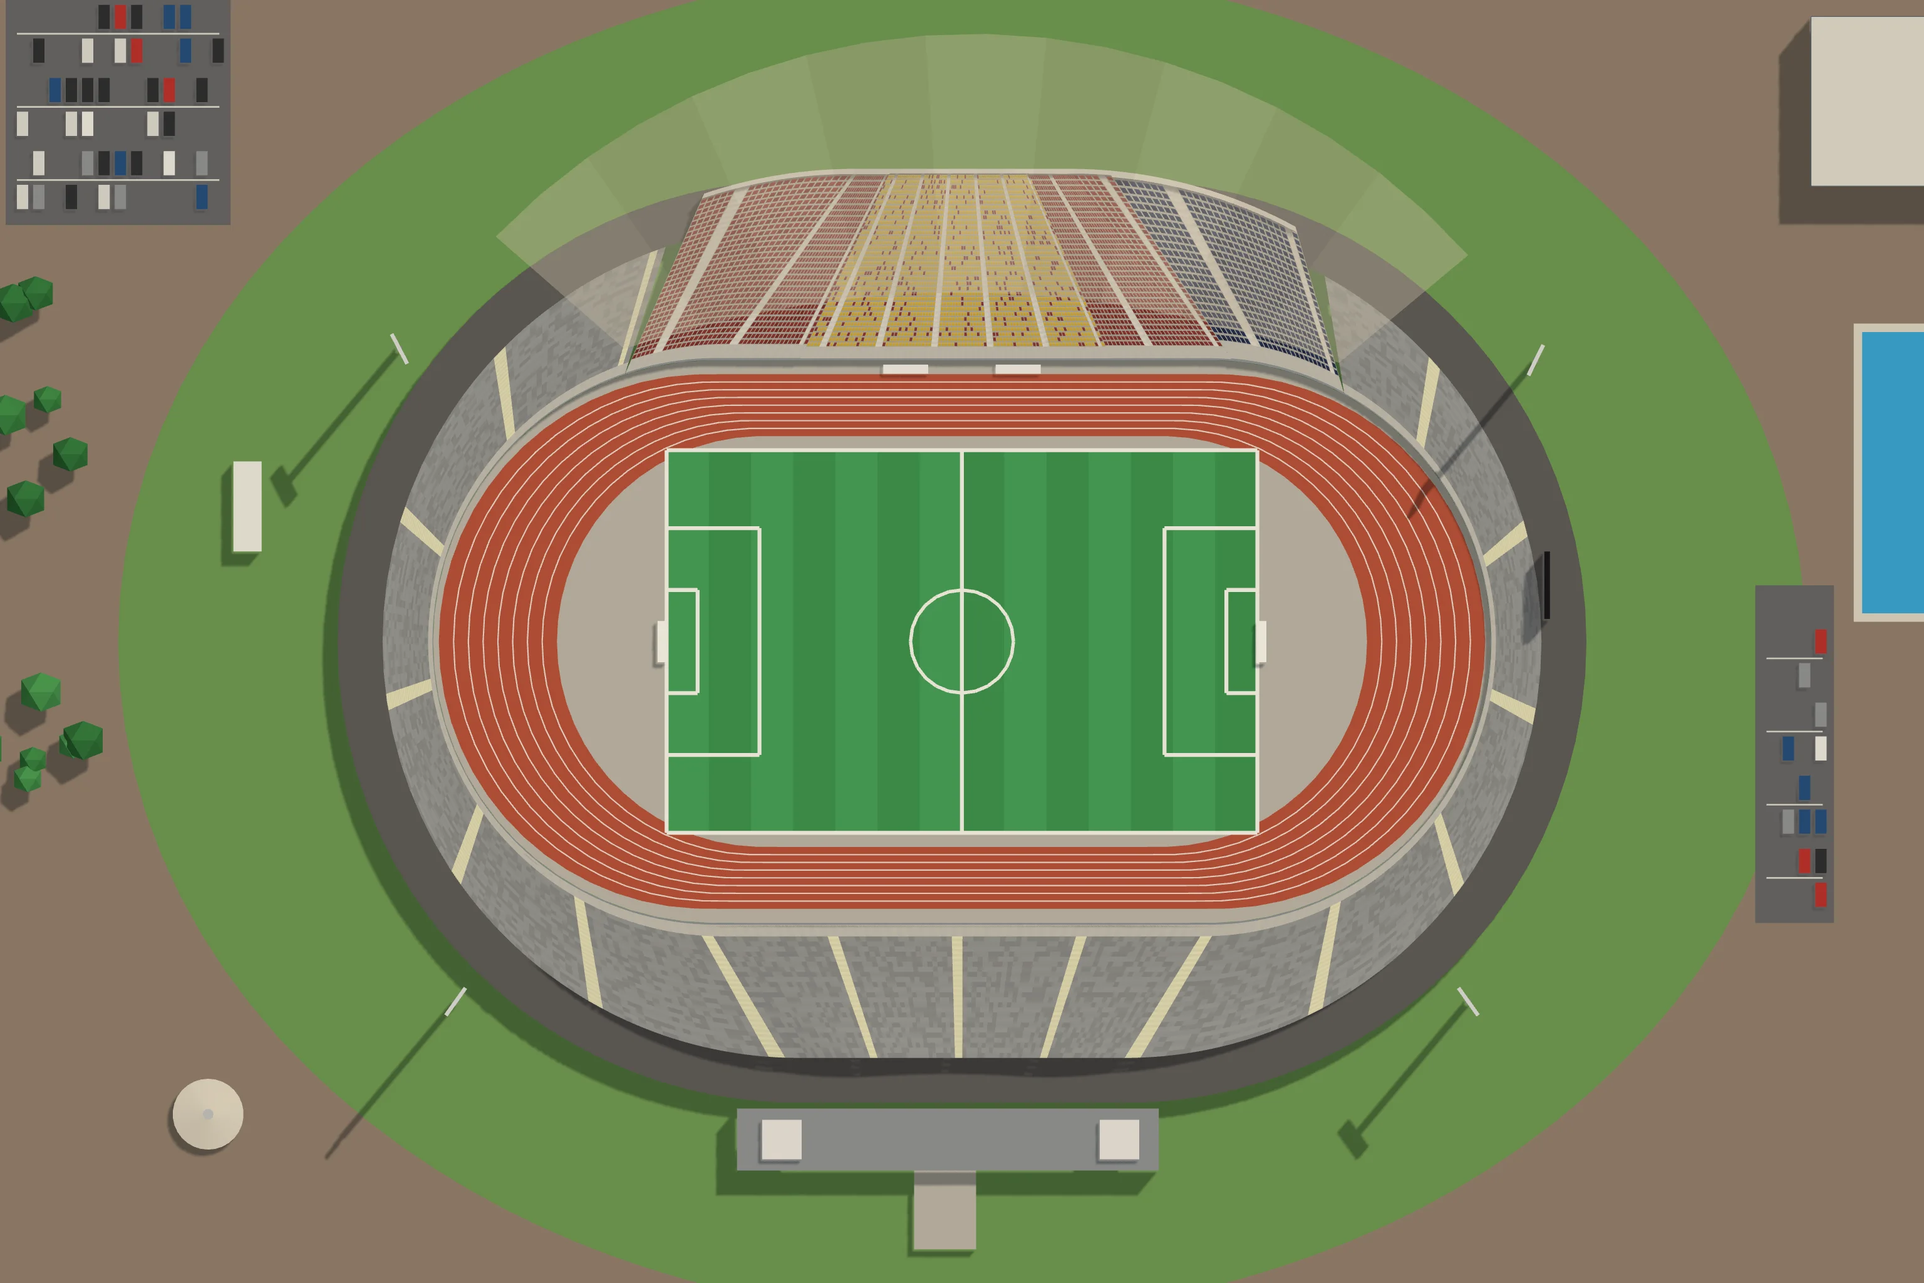
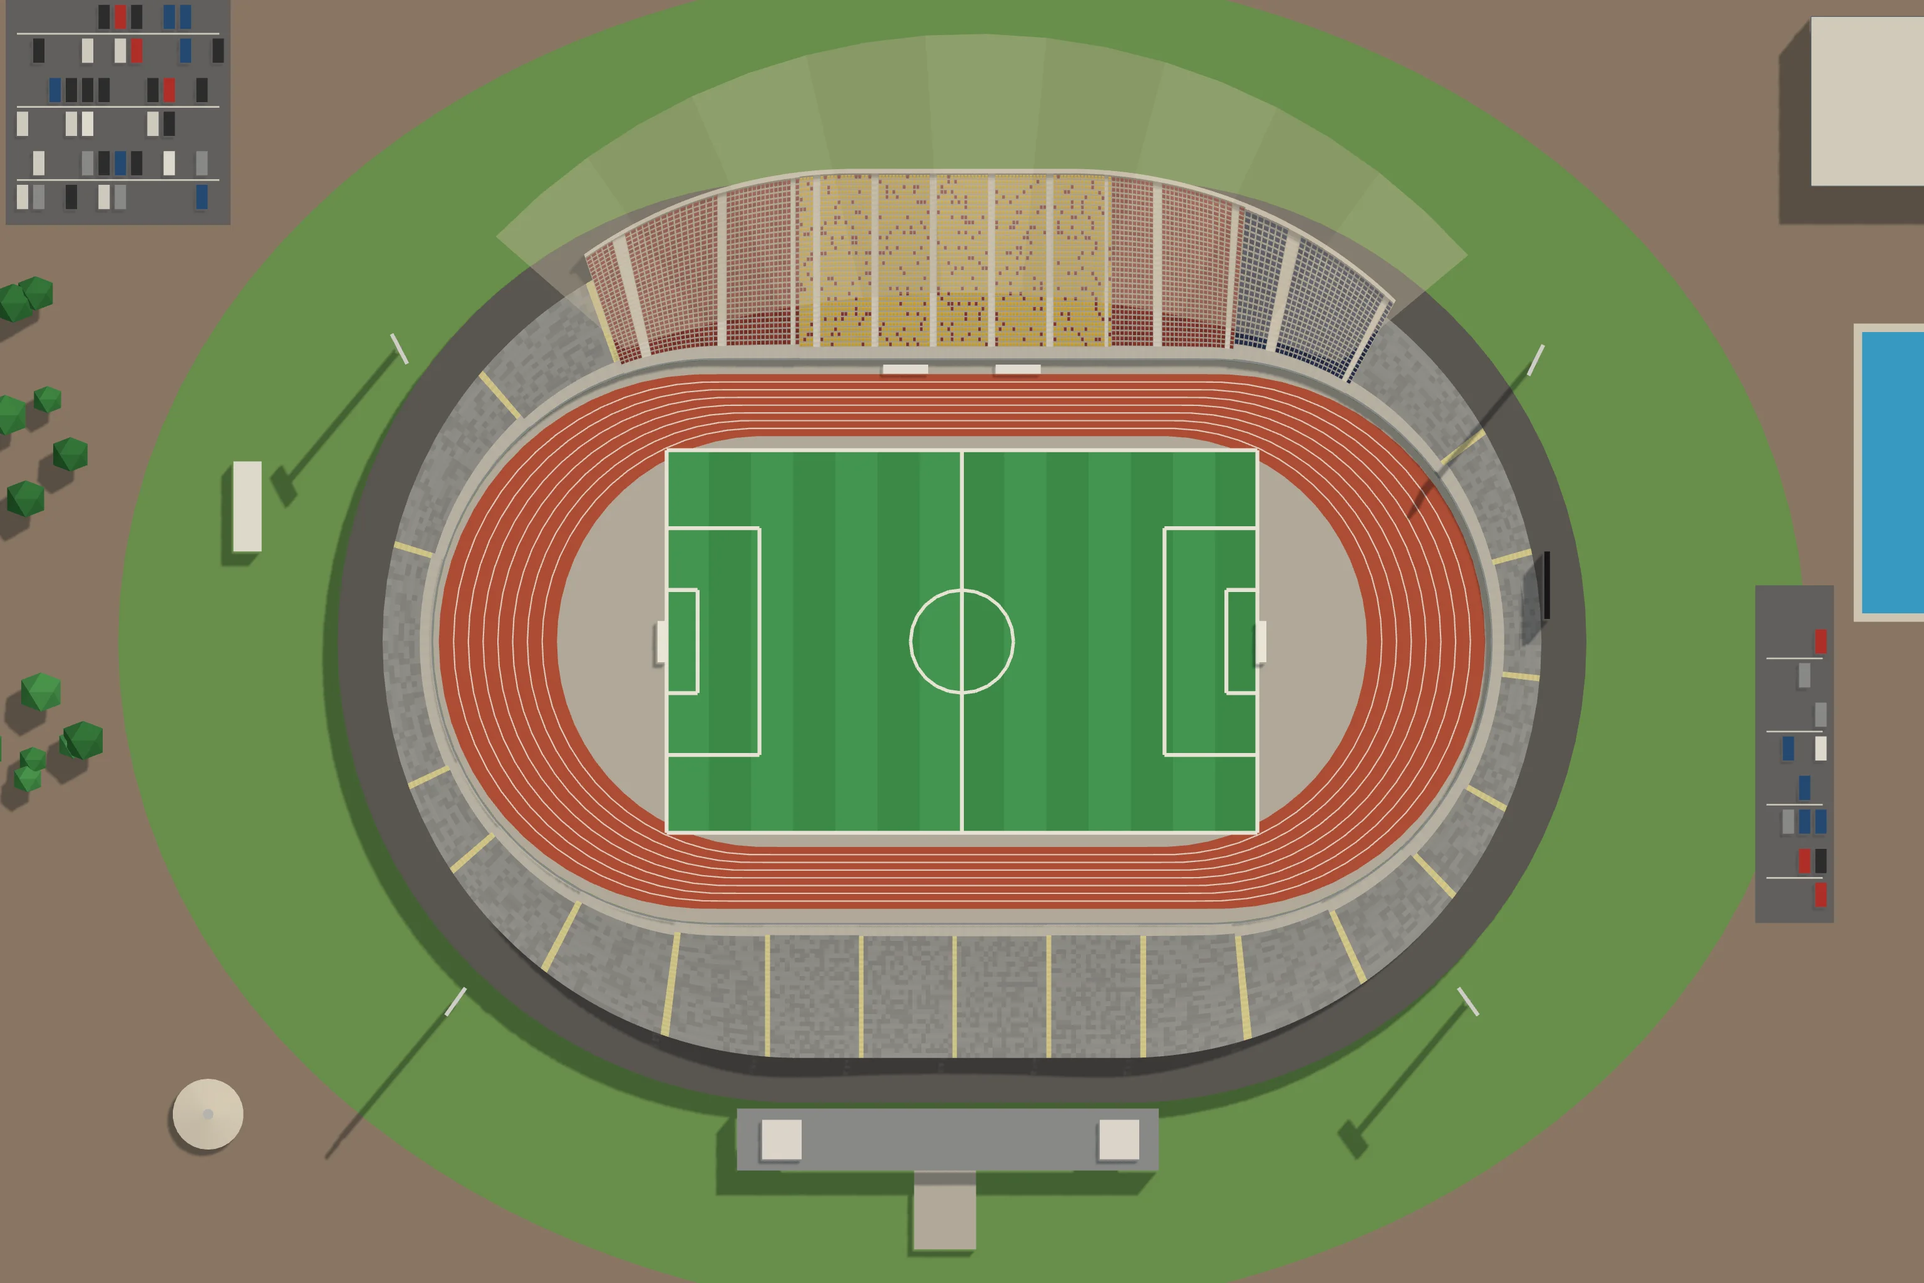
Willie Davids: escadas do degrau finas, perpendiculares à beira de dentro e onde o satélite mostra; o gerador ganha normal
Claude-Session: https://claude.ai/code/session_019hwwMAyyP7ZAvyq6wYTetr

diff --git a/cenario3d/planta.html b/cenario3d/planta.html
@@ -289,24 +289,24 @@ button:focus-visible, input:focus-visible { outline: 2px solid var(--selecao); o
 
 <script type="module">
 import * as THREE from 'https://cdn.jsdelivr.net/npm/three@0.160.0/build/three.module.min.js';
-import { planoDaCasa, montarCasa, juntarBlocos, lugarDoDecalque, placasDoLote, segmentosDoMuro, carrosDoEstacionamento, portaoDoEstacionamento } from './js/casas3d.js?v=d49debd2e7';
-import { montarModelos } from './js/modelos3d.js?v=d49debd2e7';
-import { moldeDaPeca, comTransformador } from './js/props3d.js?v=d49debd2e7';
-import { ATLAS } from './js/modelos_atlas.js?v=d49debd2e7';
-import { Construtor, sorteio } from './js/construtor3d.js?v=d49debd2e7';
-import { gerarProposta, MAPAS, MAPA_DO_PORTE, RUA, LONGE_DO_ESTADIO_M, cisaoDaPraca, VAO_CIDADES_M, PRAIA_A_MAIS } from './js/proposta.js?v=d49debd2e7';
-import { montarSede, nivelQueCabe } from './js/sede3d.js?v=d49debd2e7';
-import { onibus as onibusDetalhe, juntar as juntarDetalhe } from './js/detalhe3d.js?v=d49debd2e7';
-import { montarLoteDeVeraneio, plantaDoLote, festaNoMundo, noMundoDoLote, cenaDaFesta, detalheDaCasaDaFesta } from './js/veraneio3d.js?v=d49debd2e7';
-import { montarCaravana, cenaDaCaravana } from './js/caravana3d.js?v=d49debd2e7';
-import { montarEstacao, montarTunel, montarCarro, TREM } from './js/metro3d.js?v=d49debd2e7';
-import { montarShopping, montarDelegacia, montarPraca, montarIgreja, montarEscola, montarHospital } from './js/equip3d.js?v=d49debd2e7';
-import { montarEquipAntigo, TIPOS_ANTIGOS } from './js/equip_antigo3d.js?v=d49debd2e7';
-import { PECAS_PRAIA, montarPecaDaPraia } from './js/praia3d.js?v=d49debd2e7';
-import { ESPECIES_LP, FLORA_LP, montarArvoreLowpoly, montarAsDez, facesDaArvore, especieLowpolyDe } from './js/arvores_lowpoly.js?v=d49debd2e7';
-import { plantarMato, montarMato, LONGE_M, DENSIDADE, LADRILHO_M } from './js/mato3d.js?v=d49debd2e7';
-import { ESTADIOS_JOGO, montarEstadioJogo, glbDoEstadio, cortarEstadio, plantaDoEstadio, modeloDaLotacao, nomeDoLetreiro, nomeComAcento, marcaDoEstadio, BOCAS_DOS_PORTOES, BILHETERIAS_DA_RUA } from './js/estadios3d.js?v=d49debd2e7';
-import { PECAS_AMBULANTES, montarAmbulante } from './js/ambulantes3d.js?v=d49debd2e7';
+import { planoDaCasa, montarCasa, juntarBlocos, lugarDoDecalque, placasDoLote, segmentosDoMuro, carrosDoEstacionamento, portaoDoEstacionamento } from './js/casas3d.js?v=abacd1906b';
+import { montarModelos } from './js/modelos3d.js?v=abacd1906b';
+import { moldeDaPeca, comTransformador } from './js/props3d.js?v=abacd1906b';
+import { ATLAS } from './js/modelos_atlas.js?v=abacd1906b';
+import { Construtor, sorteio } from './js/construtor3d.js?v=abacd1906b';
+import { gerarProposta, MAPAS, MAPA_DO_PORTE, RUA, LONGE_DO_ESTADIO_M, cisaoDaPraca, VAO_CIDADES_M, PRAIA_A_MAIS } from './js/proposta.js?v=abacd1906b';
+import { montarSede, nivelQueCabe } from './js/sede3d.js?v=abacd1906b';
+import { onibus as onibusDetalhe, juntar as juntarDetalhe } from './js/detalhe3d.js?v=abacd1906b';
+import { montarLoteDeVeraneio, plantaDoLote, festaNoMundo, noMundoDoLote, cenaDaFesta, detalheDaCasaDaFesta } from './js/veraneio3d.js?v=abacd1906b';
+import { montarCaravana, cenaDaCaravana } from './js/caravana3d.js?v=abacd1906b';
+import { montarEstacao, montarTunel, montarCarro, TREM } from './js/metro3d.js?v=abacd1906b';
+import { montarShopping, montarDelegacia, montarPraca, montarIgreja, montarEscola, montarHospital } from './js/equip3d.js?v=abacd1906b';
+import { montarEquipAntigo, TIPOS_ANTIGOS } from './js/equip_antigo3d.js?v=abacd1906b';
+import { PECAS_PRAIA, montarPecaDaPraia } from './js/praia3d.js?v=abacd1906b';
+import { ESPECIES_LP, FLORA_LP, montarArvoreLowpoly, montarAsDez, facesDaArvore, especieLowpolyDe } from './js/arvores_lowpoly.js?v=abacd1906b';
+import { plantarMato, montarMato, LONGE_M, DENSIDADE, LADRILHO_M } from './js/mato3d.js?v=abacd1906b';
+import { ESTADIOS_JOGO, montarEstadioJogo, glbDoEstadio, cortarEstadio, plantaDoEstadio, modeloDaLotacao, nomeDoLetreiro, nomeComAcento, marcaDoEstadio, BOCAS_DOS_PORTOES, BILHETERIAS_DA_RUA } from './js/estadios3d.js?v=abacd1906b';
+import { PECAS_AMBULANTES, montarAmbulante } from './js/ambulantes3d.js?v=abacd1906b';
 
 const $ = id => document.getElementById(id);
 const aviso = $('aviso');
@@ -323,25 +323,25 @@ function carregarScript(src) {
 }
 window.TO = window.TO || { dados: {} };
 try {
-  await carregarScript('dados/torcidas.js?v=d49debd2e7');
-  await carregarScript('dados/times.js?v=d49debd2e7');
-  await carregarScript('dados/cena_estadio.js?v=d49debd2e7');
-  await carregarScript('dados/cidades.js?v=d49debd2e7');
-  await carregarScript('dados/estadios.js?v=d49debd2e7');
-  await carregarScript('dados/escudos.js?v=d49debd2e7');
+  await carregarScript('dados/torcidas.js?v=abacd1906b');
+  await carregarScript('dados/times.js?v=abacd1906b');
+  await carregarScript('dados/cena_estadio.js?v=abacd1906b');
+  await carregarScript('dados/cidades.js?v=abacd1906b');
+  await carregarScript('dados/estadios.js?v=abacd1906b');
+  await carregarScript('dados/escudos.js?v=abacd1906b');
   /* o manifesto das faixas de verdade (a arte do dono, 29/09/2026): a arquibancada estende a da torcida */
-  await carregarScript('dados/faixas.js?v=d49debd2e7').catch(() => {});
+  await carregarScript('dados/faixas.js?v=abacd1906b').catch(() => {});
   /* O DOMÍNIO DOS BAIRROS (o dono, 30/09/2026): as sedes repetidas num
      bairro saem espalhadas (nos dados, na carga) e os bares ganham o
      bairro deles — o mesmo módulo do jogo (js/mundo/dominio.js) */
-  await carregarScript('js/dominio.js?v=d49debd2e7').catch(() => {});
+  await carregarScript('js/dominio.js?v=abacd1906b').catch(() => {});
 } catch (e) {
   aviso.textContent = 'A planta da cidade não carregou (' + e.message + '). Recarregue a página.';
   throw e;
 }
 /* os PNG dos escudos, embutidos (o montar.sh gera): sem o arquivo, o
    caminho vai direto pra img/escudos/ */
-await carregarScript('dados/escudos_embutidos.js?v=d49debd2e7').catch(() => {});
+await carregarScript('dados/escudos_embutidos.js?v=abacd1906b').catch(() => {});
 const P = TO.dados.plantaEstadio, K = P.CIDADE, M = P.METRO, CALC = K.CALC;
 /* o mapa da vez (o pequeno, o médio ou o grande, montado pra praça
    escolhida): quem monta é usarMapa, lá embaixo */

diff --git a/cenario3d/dados/estadios_cenas.js b/cenario3d/dados/estadios_cenas.js
@@ -5306,7 +5306,7 @@ window.__ESTADIOS = {
    "visitante": 3
   },
   "foto": {
-   "imagem": "img/cenas/estadio_willie_davids.webp?v=a4ecc9f2",
+   "imagem": "img/cenas/estadio_willie_davids.webp?v=dfaa1aca",
    "mascara": "384;384;384;384;384;384;384;384;384;384;384;384;384;384;384;384;384;384;384;384;384;384;384;384;384;384;384;384;384;384;384;384;384;384;157,70,157;152,80,152;147,90,147;144,96,144;140,104,140;136,112,136;133,118,133;130,124,130;127,130,127;124,136,124;122,140,122;120,144,120;118,148,118;116,152,116;114,156,114;112,160,112;111,162,111;109,166,109;108,168,108;106,172,106;105,174,105;103,178,103;102,180,102;101,182,101;100,184,100;99,186,99;97,190,97;96,192,96;95,194,95;94,196,94;93,198,93;92,200,92;92,200,92;91,202,91;90,204,90;89,206,89;88,208,88;87,51,108,51,87;87,44,122,44,87;86,41,130,41,86;85,39,136,39,85;84,37,142,37,84;84,35,146,35,84;83,34,150,34,83;82,33,154,33,82;82,31,158,31,82;81,31,160,31,81;81,29,164,29,81;80,29,166,29,80;79,29,168,29,79;79,27,172,27,79;78,27,174,27,78;78,26,176,26,78;77,26,178,26,77;77,25,180,25,77;76,25,182,25,76;76,24,184,24,76;76,23,186,23,76;75,24,186,24,75;75,23,188,23,75;74,23,190,23,74;74,22,192,22,74;74,22,192,22,74;73,22,194,22,73;73,21,196,21,73;73,21,196,21,73;72,21,198,21,72;72,20,200,20,72;72,20,200,20,72;71,20,202,20,71;71,20,202,20,71;71,20,202,20,71;71,19,204,19,71;70,20,204,20,70;70,19,206,19,70;70,19,206,19,70;70,19,206,19,70;70,18,208,18,70;69,19,208,19,69;69,19,208,19,69;69,18,210,18,69;69,18,210,18,69;69,18,210,18,69;69,18,210,18,69;69,18,210,18,69;68,18,212,18,68;68,18,212,18,68;68,18,212,18,68;68,18,212,18,68;68,18,212,18,68;68,18,212,18,68;68,18,212,18,68;68,18,212,18,68;68,18,212,18,68;68,18,212,18,68;68,18,212,18,68;68,18,212,18,68;68,18,212,18,68;68,18,212,18,68;68,18,212,18,68;68,18,212,18,68;68,18,212,18,68;68,18,212,18,68;69,18,210,18,69;69,18,210,18,69;69,18,210,18,69;69,18,210,18,69;69,18,210,18,69;69,19,208,19,69;69,19,208,19,69;70,18,208,18,70;70,19,206,19,70;70,19,206,19,70;70,19,206,19,70;70,20,204,20,70;71,19,204,19,71;71,20,202,20,71;71,20,202,20,71;71,20,202,20,71;72,20,200,20,72;72,20,200,20,72;72,21,198,21,72;73,21,196,21,73;73,21,196,21,73;73,22,194,22,73;74,22,192,22,74;74,22,192,22,74;74,23,190,23,74;75,23,188,23,75;75,24,186,24,75;76,23,186,23,76;76,24,184,24,76;76,25,182,25,76;77,25,180,25,77;77,26,178,26,77;78,26,176,26,78;78,27,174,27,78;79,27,172,27,79;79,29,168,29,79;80,29,166,29,80;81,29,164,29,81;81,31,160,31,81;82,31,158,31,82;82,33,154,33,82;83,34,150,34,83;84,35,146,35,84;84,37,142,37,84;85,39,136,39,85;86,41,130,41,86;87,44,122,44,87;87,51,108,51,87;88,208,88;89,206,89;90,204,90;91,202,91;92,200,92;92,200,92;93,198,93;94,196,94;95,194,95;96,192,96;97,190,97;99,186,99;100,184,100;101,182,101;102,180,102;103,178,103;105,174,105;106,172,106;108,168,108;109,166,109;111,162,111;112,160,112;114,156,114;116,152,116;118,148,118;120,144,120;122,140,122;124,136,124;127,130,127;130,124,130;133,118,133;136,112,136;141,102,141;146,92,146;384;384;384;384;384;384;384;384;384;384;384;384;384;384;384;384;384;384;384;384;384;384;384;384;384;384;384;384;384;384;384;384;384;384;384;384;384"
   },
   "cena": {

diff --git a/cenario3d/js/jogo2d.js b/cenario3d/js/jogo2d.js
@@ -17,7 +17,7 @@
    cartão da partida cai perto da hora da bola e nada do que conta o
    placar passa na frente dele.
    ========================================================= */
-import { CASCA } from './jogo_casca.js?v=d49debd2e7';
+import { CASCA } from './jogo_casca.js?v=abacd1906b';
 
 const carregarScript = src => new Promise((ok, erro) => {
   const s = document.createElement('script');
@@ -31,17 +31,17 @@ async function montarJogo() {
   caixa.innerHTML = CASCA;
   while (caixa.firstChild) document.body.appendChild(caixa.firstChild);
   /* os escudos, as fotos das praças e as bandeiras embutidos (o `IMG()` do jogo procura aqui antes do caminho) */
-  await carregarScript('dados/imagens_jogo.js?v=d49debd2e7').catch(() => {});
+  await carregarScript('dados/imagens_jogo.js?v=abacd1906b').catch(() => {});
   /* os estádios low-poly das cenas (ferramentas/estadios/assar.js): antes do jogo, que monta as cenas quando carrega */
-  await carregarScript('dados/estadios_cenas.js?v=d49debd2e7').catch(() => {});
+  await carregarScript('dados/estadios_cenas.js?v=abacd1906b').catch(() => {});
   /* sem o rolo do feed: a tela entre os jogos é o portal */
   window.TO = window.TO || {};
   TO.semFeed = true;
-  await carregarScript('js/jogo.js?v=d49debd2e7');
-  await carregarScript('js/portal.js?v=d49debd2e7').catch(err => console.error('o portal não carregou:', err));
+  await carregarScript('js/jogo.js?v=abacd1906b');
+  await carregarScript('js/portal.js?v=abacd1906b').catch(err => console.error('o portal não carregou:', err));
   /* o boneco das cenas de imagem (os dois níveis afinados, em base64) */
-  if (!TO.dados.bonecoPertoGLB) await carregarScript('dados/boneco_glb.js?v=d49debd2e7').catch(() => {});
-  await import('./bonecos3_global.js?v=d49debd2e7').catch(err => console.error('o boneco das cenas não carregou:', err));
+  if (!TO.dados.bonecoPertoGLB) await carregarScript('dados/boneco_glb.js?v=abacd1906b').catch(() => {});
+  await import('./bonecos3_global.js?v=abacd1906b').catch(err => console.error('o boneco das cenas não carregou:', err));
   ligar();
 }
 

diff --git a/cenario3d/jogo.html b/cenario3d/jogo.html
@@ -9,16 +9,16 @@
 <link rel="preconnect" href="https://fonts.googleapis.com">
 <link rel="preconnect" href="https://fonts.gstatic.com" crossorigin>
 <link rel="stylesheet" href="https://fonts.googleapis.com/css2?family=Barlow+Semi+Condensed:wght@500;600;700&family=Barlow:wght@400;500;600&family=IBM+Plex+Mono:wght@400;500&display=swap">
-<link rel="stylesheet" href="css/jogo.css?v=d49debd2e7">
-<link rel="stylesheet" href="css/jogo3d.css?v=d49debd2e7">
-<link rel="stylesheet" href="css/portal.css?v=d49debd2e7">
-<link rel="stylesheet" href="css/telas3d.css?v=d49debd2e7">
+<link rel="stylesheet" href="css/jogo.css?v=abacd1906b">
+<link rel="stylesheet" href="css/jogo3d.css?v=abacd1906b">
+<link rel="stylesheet" href="css/portal.css?v=abacd1906b">
+<link rel="stylesheet" href="css/telas3d.css?v=abacd1906b">
 <style>
 [hidden] { display: none !important; }
 html, body { height: 100%; margin: 0; }
 </style>
 </head>
 <body class="jogo3d">
-<script type="module" src="js/jogo2d.js?v=d49debd2e7"></script>
+<script type="module" src="js/jogo2d.js?v=abacd1906b"></script>
 </body>
 </html>

diff --git a/cenario3d/js/casas3d.js b/cenario3d/js/casas3d.js
@@ -60,10 +60,10 @@
    avançam (`rec`), e o letreiro, a pixação e a falha de reboco do
    bairro vão pro plano dessa parede, não pro da divisa.
    ========================================================= */
-import { Construtor, METRO, mureta, toldo, arSplit, sorteio } from './construtor3d.js?v=d49debd2e7';
-import { ATLAS } from './modelos_atlas.js?v=d49debd2e7';
+import { Construtor, METRO, mureta, toldo, arSplit, sorteio } from './construtor3d.js?v=abacd1906b';
+import { ATLAS } from './modelos_atlas.js?v=abacd1906b';
 /* as lojas do assalto (lojas3d.js): modelos de lote como os outros */
-import { TIPOS_LOJA, REC_LOJA, placaDaLoja } from './lojas3d.js?v=d49debd2e7';
+import { TIPOS_LOJA, REC_LOJA, placaDaLoja } from './lojas3d.js?v=abacd1906b';
 
 /* o arquivo de cada folha, pro bairro montar o material dele */
 export const arquivoDaFolha = folha => ATLAS[folha].arquivo;

diff --git a/cenario3d/js/ambulantes3d.js b/cenario3d/js/ambulantes3d.js
@@ -27,8 +27,8 @@
    que a planta acha o lugar dela na calçada do estádio. `sol`: o meio e
    o raio da copa ([x, z, r]), que o mapa desenha de perto.
    ========================================================= */
-import { Construtor, noMundo, placasNoMundo, sorteio, esfera, unit } from './construtor3d.js?v=d49debd2e7';
-import { Lugar, barra, tubo, cilindro, bloco, pano, toro, guardaSol, cadeiraPlastica, isopor, banqueta, CORES_SOL } from './praia3d.js?v=d49debd2e7';
+import { Construtor, noMundo, placasNoMundo, sorteio, esfera, unit } from './construtor3d.js?v=abacd1906b';
+import { Lugar, barra, tubo, cilindro, bloco, pano, toro, guardaSol, cadeiraPlastica, isopor, banqueta, CORES_SOL } from './praia3d.js?v=abacd1906b';
 
 const AQUI = Lugar();
 const escolha = (rnd, lista) => lista[Math.floor(rnd() * lista.length) % lista.length];

diff --git a/cenario3d/js/praia3d.js b/cenario3d/js/praia3d.js
@@ -36,8 +36,8 @@
    cadeira e a mesa de plástico) servem também os ambulantes da porta do
    estádio (ambulantes3d.js), na mesma folha.
    ========================================================= */
-import { Construtor, METRO, lerp, sub, soma, esc, unit, pv, noMundo, placasNoMundo, sorteio, varrer, esfera } from './construtor3d.js?v=d49debd2e7';
-import { montarArvoreLowpoly } from './arvores_lowpoly.js?v=d49debd2e7';
+import { Construtor, METRO, lerp, sub, soma, esc, unit, pv, noMundo, placasNoMundo, sorteio, varrer, esfera } from './construtor3d.js?v=abacd1906b';
+import { montarArvoreLowpoly } from './arvores_lowpoly.js?v=abacd1906b';
 
 const ALTO = [0, 1, 0];
 const escolha = (rnd, lista) => lista[Math.floor(rnd() * lista.length) % lista.length];

diff --git a/cenario3d/js/modelos3d.js b/cenario3d/js/modelos3d.js
@@ -32,8 +32,8 @@
    requadro da janela, toldo, ar-condicionado. O resto é pintura.
    ========================================================= */
 import * as THREE from 'https://cdn.jsdelivr.net/npm/three@0.160.0/build/three.module.min.js';
-import { ATLAS } from './modelos_atlas.js?v=d49debd2e7';
-import { Construtor, METRO, lerp, sub, soma, esc, pv, pe, unit, recuoPoligono, mureta, toldo, arSplit } from './construtor3d.js?v=d49debd2e7';
+import { ATLAS } from './modelos_atlas.js?v=abacd1906b';
+import { Construtor, METRO, lerp, sub, soma, esc, pv, pe, unit, recuoPoligono, mureta, toldo, arSplit } from './construtor3d.js?v=abacd1906b';
 
 /* =======================================================
    1. A IGREJA MATRIZ

diff --git a/cenario3d/js/props3d.js b/cenario3d/js/props3d.js
@@ -26,8 +26,8 @@
    poste vira uma haste de longe; o resto, que é miúdo, some.
    ========================================================= */
 import * as THREE from 'https://cdn.jsdelivr.net/npm/three@0.160.0/build/three.module.min.js';
-import { ATLAS } from './modelos_atlas.js?v=d49debd2e7';
-import { Construtor, METRO, lerp } from './construtor3d.js?v=d49debd2e7';
+import { ATLAS } from './modelos_atlas.js?v=abacd1906b';
+import { Construtor, METRO, lerp } from './construtor3d.js?v=abacd1906b';
 
 /* as cores que o vértice dá pro que sai claro na folha */
 const COR_CESTO = ['#6aa33a', '#d2b53a', '#3f82ad', '#8b6a3c', '#b8452f'];

diff --git a/cenario3d/js/mato3d.js b/cenario3d/js/mato3d.js
@@ -19,8 +19,8 @@
 
    Tudo em metros; `noMundo` converte. A mesma semente dá o mesmo mato.
    ========================================================= */
-import { METRO, noMundo, sorteio } from './construtor3d.js?v=d49debd2e7';
-import { facesDaArvore, especieLowpolyDe } from './arvores_lowpoly.js?v=d49debd2e7';
+import { METRO, noMundo, sorteio } from './construtor3d.js?v=abacd1906b';
+import { facesDaArvore, especieLowpolyDe } from './arvores_lowpoly.js?v=abacd1906b';
 
 /* a área de chão de cada árvore (m²), por lugar */
 export const DENSIDADE = { mata: 70, cerrado: 200, caatinga: 150, sul: 90, praia: 120, cidade: 250 };

diff --git a/cenario3d/js/bonecos3_global.js b/cenario3d/js/bonecos3_global.js
@@ -14,7 +14,7 @@
    DOMContentLoaded: quem usa (a ponte, numa cena aberta pelo jogador)
    chega muito depois.
    ========================================================= */
-import { montar, desenharDeCima, desenharVitrine, limparDeCima, fotoDoTrofeu, fotoDaBriga, fotoDaCena, perdeu, bonecos } from './bonecos3_cena.js?v=d49debd2e7';
+import { montar, desenharDeCima, desenharVitrine, limparDeCima, fotoDoTrofeu, fotoDaBriga, fotoDaCena, perdeu, bonecos } from './bonecos3_cena.js?v=abacd1906b';
 
 window.TO = window.TO || {};
 TO.diaJogo = TO.diaJogo || {};

diff --git a/cenario3d/js/bonecos3_cena.js b/cenario3d/js/bonecos3_cena.js
@@ -103,7 +103,7 @@
       numa fase sorteada (quem sai junto não sai no mesmo pé).
    ========================================================= */
 import * as THREE from 'https://cdn.jsdelivr.net/npm/three@0.160.0/build/three.module.min.js';
-import { GLTFLoader, SkeletonUtils } from './GLTFLoader.js?v=d49debd2e7';
+import { GLTFLoader, SkeletonUtils } from './GLTFLoader.js?v=abacd1906b';
 
 /* onde o modelo mora, quando não vem embutido em base64: o detalhado
    (o do Blender) e os dois níveis afinados dele (ferramentas/afinar_boneco.mjs) */
